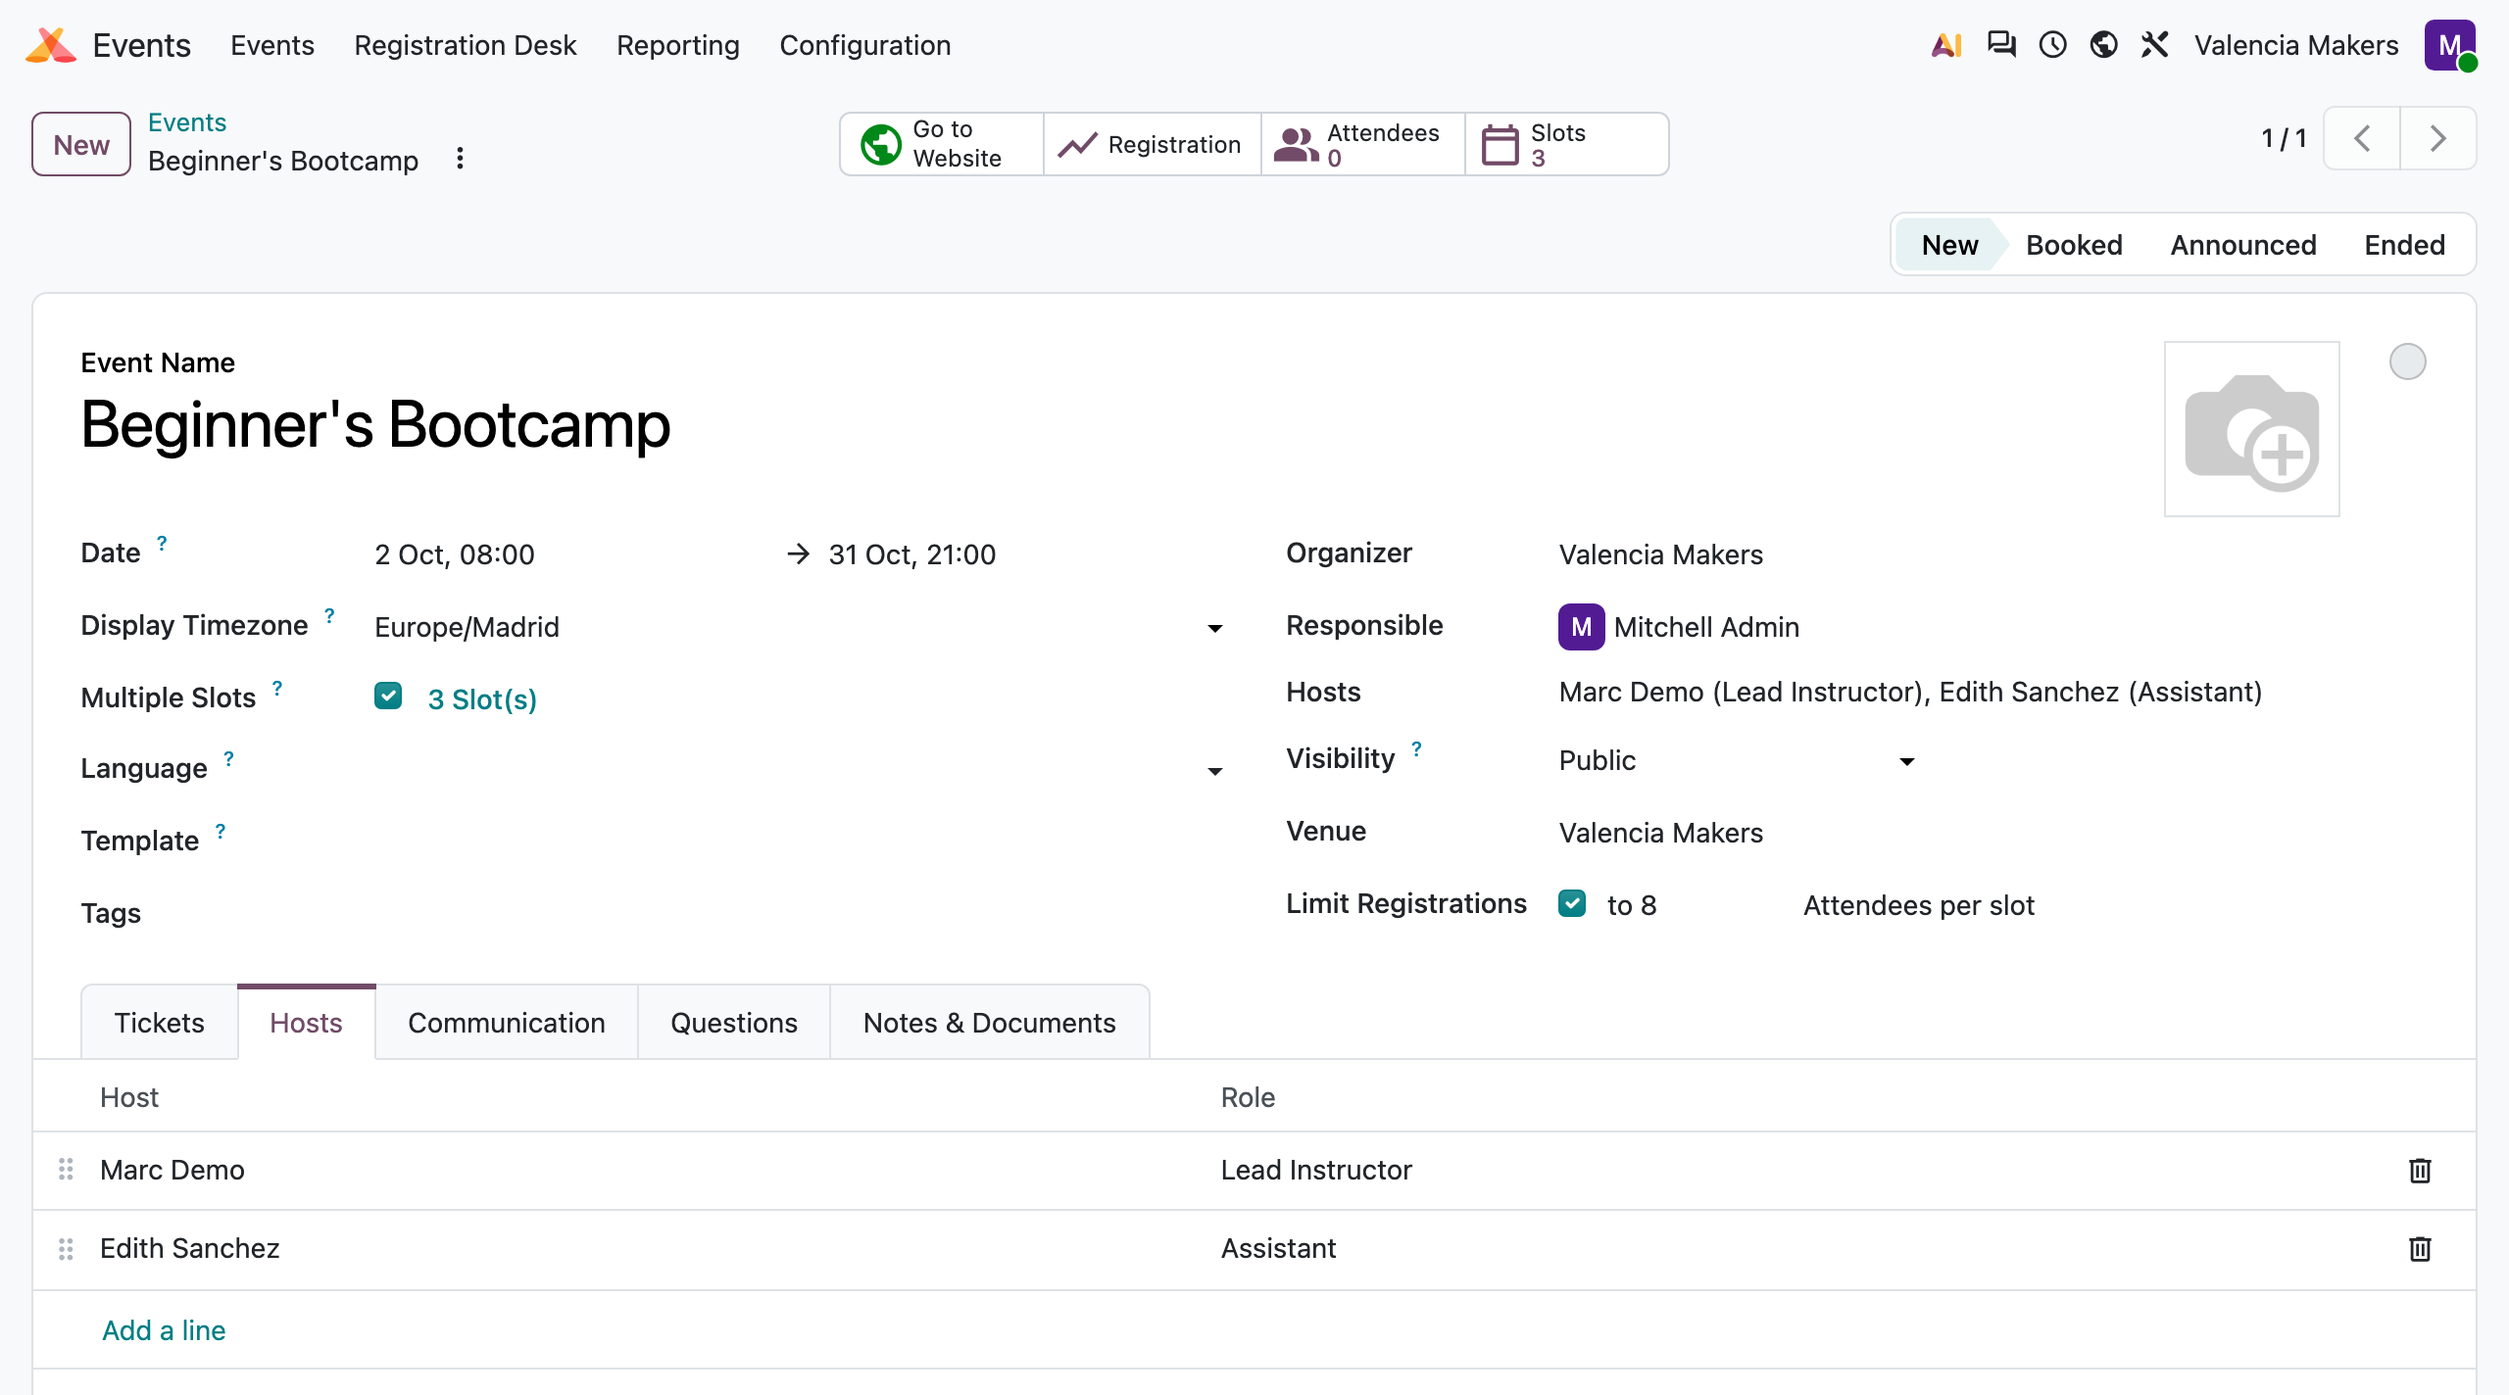
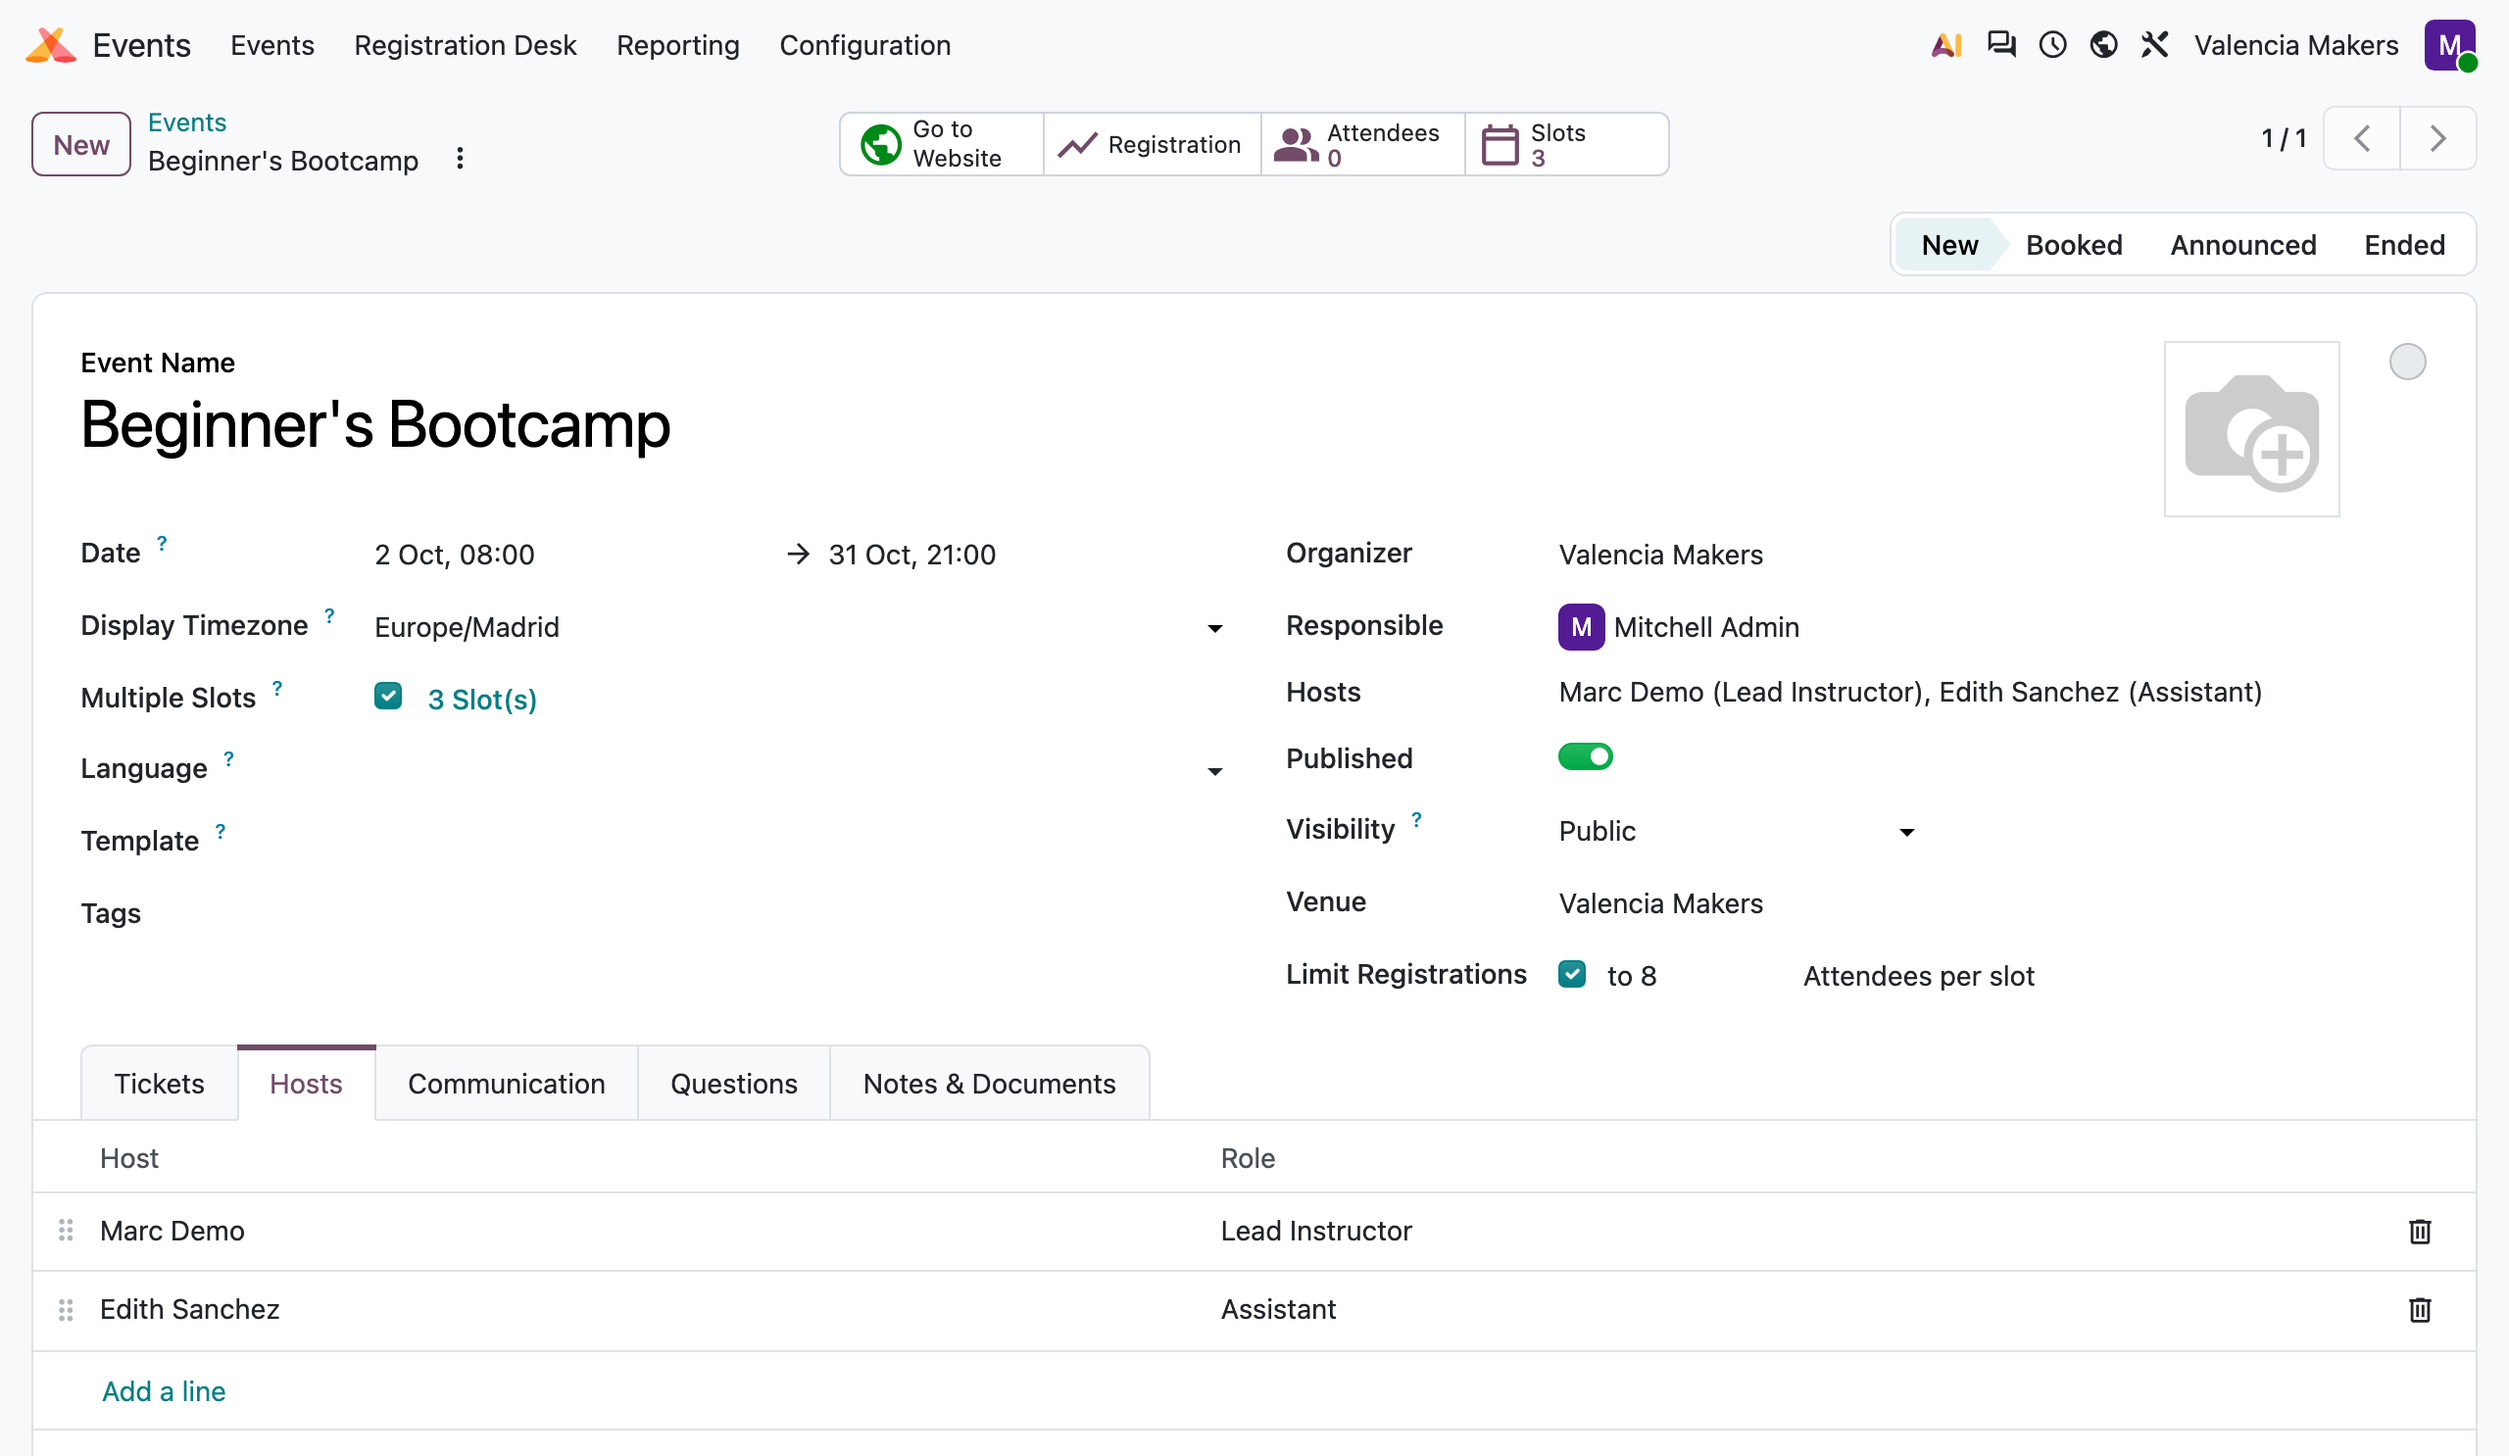
Show 20's publishing rows, and no focus ring, in the store images
- Event Hosts and Registration Deadline stop hiding 20's Published
  toggle and "Publish on" row: they are 20's own, and the images should
  show 20 as it is. The PoS Sales button stays hidden, since it only
  appears because another app is installed.
- The Apps Page Sort capture blurs the filter toggle it clicked, which
  kept focus and drew 20's green ring into the screenshot.
- Retaken, with their covers; the deadline form also shows its hours at
  their new, content-sized width.

diff --git a/tools/shots/recipes/vmk_event_registration_deadline.py b/tools/shots/recipes/vmk_event_registration_deadline.py
@@ -20,11 +20,6 @@ OWN_DEADLINE = "Back to Basics"        # has its own 02:00 deadline and an Admis
 # .o_inner_group directly; 18 wraps each pair together in one .o_wrap_field instead, so .o_cell is
 # no longer .o_inner_group's direct child -- see shots/README.md on porting a recipe.
 FORM_CSS = """
-    /* 20 adds a Published toggle and a Publish on row to the group; neither was in the 19 framing */
-    .o_inner_group > .o_cell:has([name=website_published]),
-    .o_inner_group > .o_cell:has(+ .o_cell [name=website_published]),
-    .o_inner_group > .o_cell:has(label[for^=publish_on]),
-    .o_inner_group > .o_cell:has(label[for^=publish_on]) + .o_cell { display: none !important; }
     .o_inner_group > .o_cell:has([name=vmk_host_names]),
     .o_inner_group > .o_cell:has(+ .o_cell [name=vmk_host_names]),
     .o_wrap_field:has([name=vmk_host_names]) { display: none !important; }

diff --git a/tools/shots/recipes/vmk_event_host.py b/tools/shots/recipes/vmk_event_host.py
@@ -19,11 +19,6 @@ EVENT = "Beginner's Bootcamp"
 # as siblings of .o_inner_group directly; 18 wraps each pair together in one .o_wrap_field instead,
 # so .o_cell is no longer .o_inner_group's direct child -- see shots/README.md on porting a recipe.
 FORM_CSS = """
-    /* 20 adds a Published toggle and a Publish on row to the group; neither was in the 19 framing */
-    .o_inner_group > .o_cell:has([name=website_published]),
-    .o_inner_group > .o_cell:has(+ .o_cell [name=website_published]),
-    .o_inner_group > .o_cell:has(label[for^=publish_on]),
-    .o_inner_group > .o_cell:has(label[for^=publish_on]) + .o_cell { display: none !important; }
     .o_inner_group > .o_cell:has([name=vmk_deadline_custom]),
     .o_inner_group > .o_cell:has(+ .o_cell [name=vmk_deadline_custom]),
     .o_wrap_field:has([name=vmk_deadline_custom]) { display: none !important; }

diff --git a/tools/shots/recipes/_sorting.py b/tools/shots/recipes/_sorting.py
@@ -37,6 +37,8 @@ async def apps(page, out, phase):
     await page.click(".o_searchview_dropdown_toggler"); await page.wait_for_timeout(500)
     await page.locator(".o_filter_menu .o-dropdown-item, .o_filter_menu .dropdown-item", has_text="Installed").first.click()
     await page.wait_for_timeout(1200); await page.keyboard.press("Escape"); await page.wait_for_timeout(500)
+    # the filter's toggle keeps focus, and 20 draws a green ring around it
+    await page.evaluate("document.activeElement && document.activeElement.blur()")
     await shots.polish(page, HIDE); await shots.park_mouse(page, 1280, 800)
     if phase == "after":
         await page.screenshot(path=out / "main_screenshot.png")
